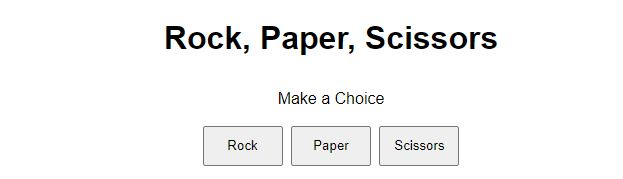
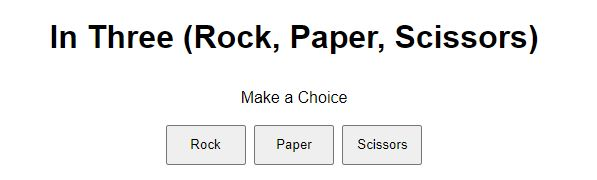
Writing Readme

Changed region(s): [[0.0603, 0.1117, 0.9045, 0.3073], [0.2714, 0.6704, 0.7538, 0.9497], [0.392, 0.5028, 0.6332, 0.5866]]

diff --git a/README.md b/README.md
@@ -11,3 +11,18 @@ Users will learn the rules of Rock Paper Scissors if they never playid it before
 ###Existing features
 
 *Header
+ *Featured at the top of the page, the header shows the game name: In Three (Rock, Paper, Scissors) in a font that is clearly contrasts with the background.
+ *The header clearly tells the user what game they are playing and the name of the site.
+
+ ![Site header](header.JPG)
+
+*The Game Options
+ *The game options includes a clear and visiable instruction. An option of choice are visial to choose from: Rock, Paper, Scissors. These options are interactive buttons that the user can vlick to make their choice.
+ *This section provides interactive buttons that the suer can click to make their choice and play the game.
+
+ ![Make a choices](assets/images/Gamefetuers.JPG)
+
+*The Game Resluts
+ *
+
+
